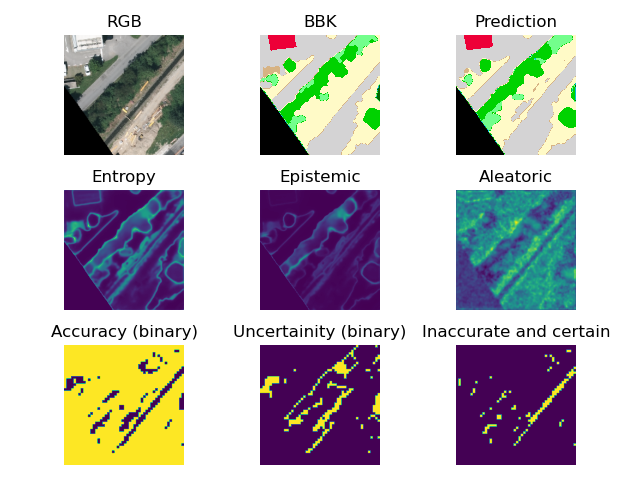
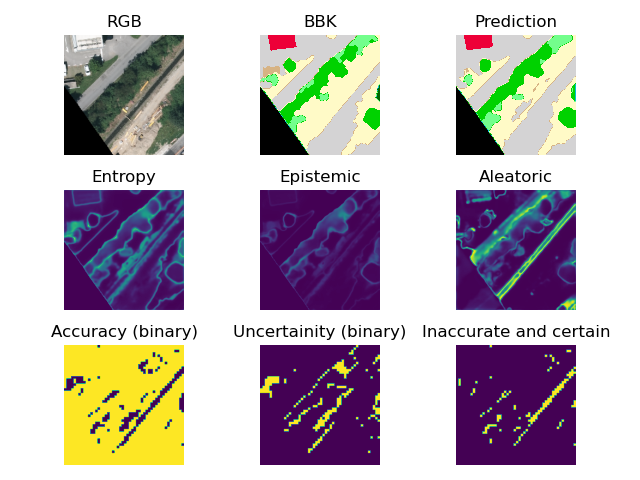
make few updates for aleatoric uncertainty

diff --git a/test_aleatoric.py b/test_aleatoric.py
@@ -75,23 +75,27 @@ def evaluate_uncertainty(net,
              #loop to add the noise
             for k in range(image_aleatoric.size()[0]):
                 img = image_aleatoric[k,:,:,:].cpu().numpy()
-                change_brightContrast = A.augmentations.transforms.RandomBrightnessContrast(p=1)
-                add_noise = A.augmentations.transforms.GaussNoise (var_limit=20, mean=0, per_channel=True, always_apply=False, p=1)
-                image_aleatoric[k,4:7,:,:] = torch.tensor(add_noise(image=img)["image"]).to(device=device, dtype=torch.float32)
-                image_aleatoric[k,:4,:,:] = torch.tensor(add_noise(change_brightContrast(image=img)["image"])).to(device=device, dtype=torch.float32)
+
+                change_brightContrast = A.augmentations.transforms.RandomBrightnessContrast(brightness_limit=0.2, contrast_limit=0.2, p=1)
+                change_hueSaturation = A.augmentations.transforms.HueSaturationValue(hue_shift_limit=0.2, sat_shift_limit=0.2, p=1)
+					
+                image_temp = change_hueSaturation(image=np.transpose(img[:3,:,:],axes=(1,2,0)))['image']
+                image_aleatoric[k,:3,:,:] = torch.tensor(change_brightContrast(image=np.transpose(image_temp,axes=(2,1,0)))['image']).to(device=device, dtype=torch.float32)
+            
             with torch.no_grad():
-                # predict with dropout
-                enable_dropout(net)
-                mask_pred = net(doc)
-                # concatenate prediction to the other made on the same batch
-                dropout_predictions = torch.cat((dropout_predictions,mask_pred.cpu().softmax(dim=1).unsqueeze(dim=0)),dim=0)
+                
                 # predict noisy image
                 disable_dropout(net)
                 mask_pred = net(image_aleatoric)
-                
                 # concatenate prediction to the other made on the same batch
                 aleatoric_predictions = torch.cat((aleatoric_predictions,mask_pred.cpu().softmax(dim=1).unsqueeze(dim=0)),dim=0)
                 
+                # predict with dropout
+                enable_dropout(net)
+                mask_pred = net(image)
+                # concatenate prediction to the other made on the same batch
+                dropout_predictions = torch.cat((dropout_predictions,mask_pred.cpu().softmax(dim=1).unsqueeze(dim=0)),dim=0)
+
                 # compute confidence matrix
                 cf_matrix = cf_matrix + confusion_matrix(mask_true.argmax(dim=1).view(-1).cpu(),mask_pred.argmax(dim=1).view(-1).cpu(), labels = np.arange(0,9))
 
@@ -215,7 +219,7 @@ if __name__ == '__main__':
 
     # declare model
     net = BayesianUNet(n_channels=7, n_classes=9, bilinear=False).to(device=device)
-    checkpoint_path = 'checkpoints_bayesian/checkpoint_epoch60.pth'
+    checkpoint_path = 'checkpoints_b_augmented/checkpoint_epoch60.pth'
     net.load_state_dict(torch.load(checkpoint_path, map_location=device))
     net.eval()
 

diff --git a/example_data_aleatoric.py b/example_data_aleatoric.py
@@ -88,8 +88,13 @@ for i in dl:
              	#loop to add the noise
 				for k in range(image_aleatoric.size()[0]):
 					img = image_aleatoric[k,:,:,:].cpu().numpy()
-					add_noise = A.augmentations.transforms.GaussNoise (var_limit=10, mean=0, per_channel=True, always_apply=False, p=1)
-					image_aleatoric[k,:,:,:] = torch.tensor(add_noise(image=img)["image"]).to(device=device, dtype=torch.float32)
+					
+					change_brightContrast = A.augmentations.transforms.RandomBrightnessContrast(brightness_limit=0.2, contrast_limit=0.2, p=1)
+					change_hueSaturation = A.augmentations.transforms.HueSaturationValue(hue_shift_limit=0.2, sat_shift_limit=0.2, p=1)
+					
+					# Add augmentation changing contrast, saturation and brightness
+					image_temp = change_hueSaturation(image=np.transpose(img[:3,:,:],axes=(1,2,0)))['image']
+					image_aleatoric[k,:3,:,:] = torch.tensor(change_brightContrast(image=np.transpose(image_temp,axes=(2,1,0)))['image']).to(device=device, dtype=torch.float32)
 
 				with torch.no_grad():
 					# predict with dropout

diff --git a/repeat_dl_testing.py b/repeat_dl_testing.py
@@ -1,0 +1,19 @@
+import torch
+from utils.dataset import BBKDataset
+from torch.utils.data import DataLoader
+# https://stackoverflow.com/questions/12007820/better-ways-to-get-nth-element-from-an-unsubscriptable-iterable
+
+bbkd = BBKDataset(zone = ("genf",),split="test", augment=True)
+dl = DataLoader(bbkd, batch_size=32, shuffle=False)
+
+# for x, (image, target) in enumerate(dl):
+#     print(image.size())
+#     print(target.size())
+# print(x)
+
+x = 3
+im1 = enumerate(dl)[x]
+im2 = enumerate(dl)[x]
+
+print(im1.size())
+print(im2.size())
